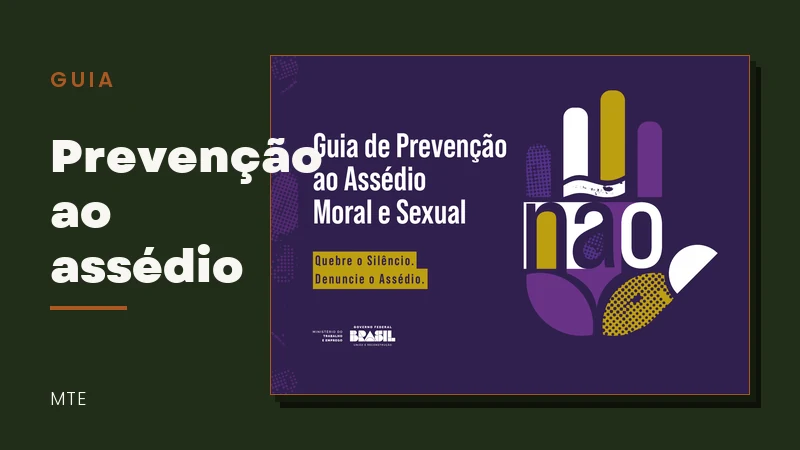
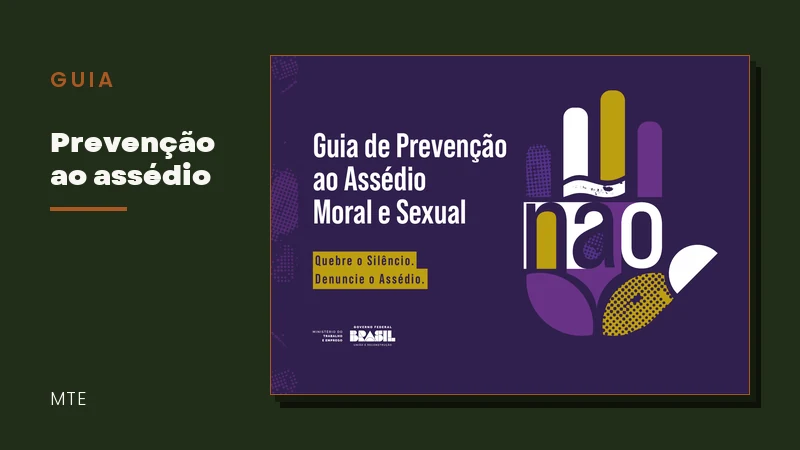
Corrige titulo invadindo a miniatura nas capas
O laco que reduzia a fonte so contava linhas, entao uma palavra longa e
indivisivel (Prevencao) cabia em uma linha e ainda assim estourava a
largura util. Agora tambem checa a largura da linha mais larga.

Changed region(s): [[0.0625, 0.28, 0.4062, 0.5289], [0.0625, 0.5289, 0.3125, 0.7156]]

diff --git a/scripts/gerar_capas_terceiros.py b/scripts/gerar_capas_terceiros.py
@@ -150,13 +150,17 @@ def gerar(slug, origem, rotulo, titulo, fonte_rodape):
     f_rot = ImageFont.truetype(POPPINS_SB, 21)
     f_pe = ImageFont.truetype(POPPINS_L, 18)
 
+    # diminui ate caber em 3 linhas E nenhuma linha estourar a largura.
+    # so contar linhas nao basta: uma palavra longa e indivisivel ("Prevencao")
+    # cabe em uma linha e mesmo assim invade a miniatura.
     tam = 46
-    while tam >= 28:
+    while tam >= 22:
         f_tit = ImageFont.truetype(GARET, tam)
         linhas = quebra(d, titulo, f_tit, largura_txt)
-        if len(linhas) <= 3:
+        mais_larga = max(d.textlength(l, font=f_tit) for l in linhas)
+        if len(linhas) <= 3 and mais_larga <= largura_txt:
             break
-        tam -= 3
+        tam -= 2
 
     espacado(d, (margem, 64), rotulo, f_rot, ACENTO, esp=4)
 

diff --git a/scripts/gerar_capas_autorais.py b/scripts/gerar_capas_autorais.py
@@ -98,13 +98,17 @@ def gerar(pdf, slug, categoria, rotulo, titulo):
     f_rot = ImageFont.truetype(POPPINS_SB, 21)
     f_pe = ImageFont.truetype(POPPINS_L, 20)
 
+    # diminui ate caber em 3 linhas E nenhuma linha estourar a largura.
+    # so contar linhas nao basta: uma palavra longa e indivisivel cabe em uma
+    # linha e mesmo assim invade a miniatura.
     tam = 46
-    while tam >= 30:
+    while tam >= 22:
         f_tit = ImageFont.truetype(GARET, tam)
         linhas = quebra(d, titulo, f_tit, largura_txt)
-        if len(linhas) <= 3:
+        mais_larga = max(d.textlength(l, font=f_tit) for l in linhas)
+        if len(linhas) <= 3 and mais_larga <= largura_txt:
             break
-        tam -= 3
+        tam -= 2
 
     espacado(d, (margem, 64), rotulo, f_rot, ACENTO, esp=4)
 
